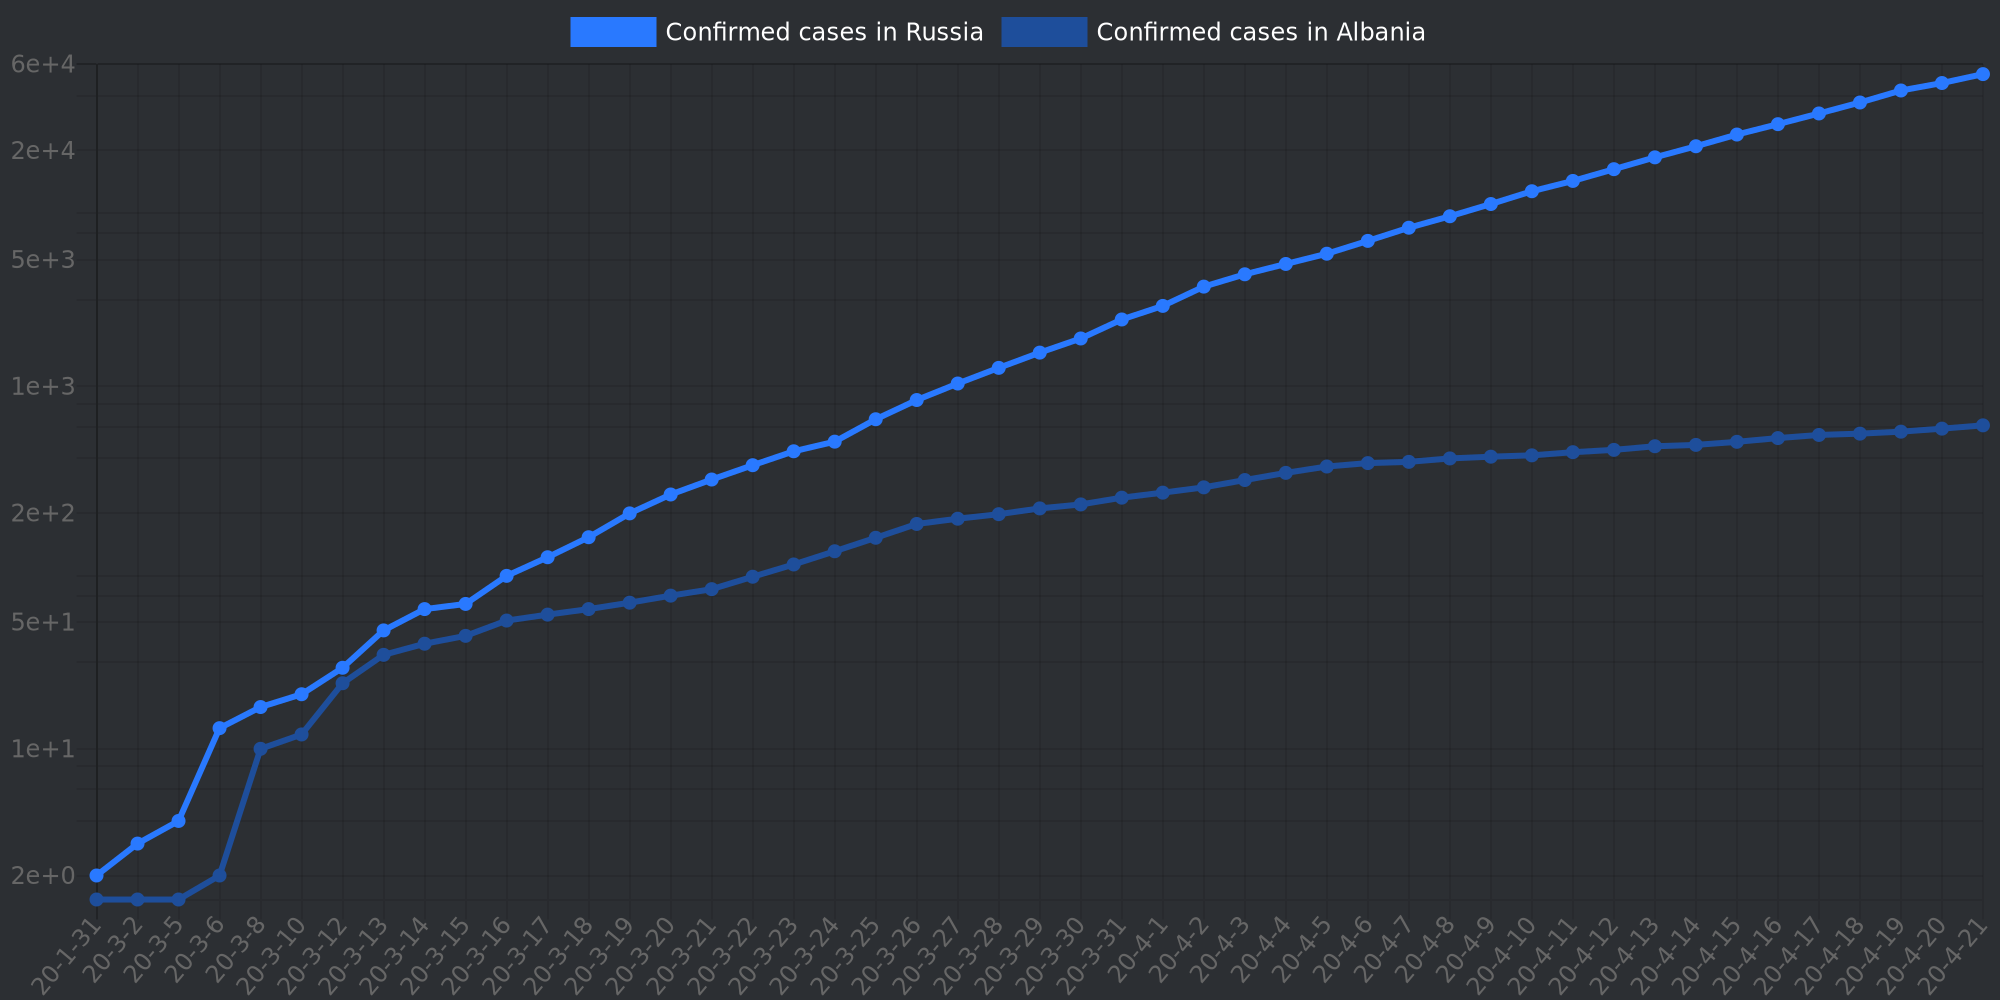
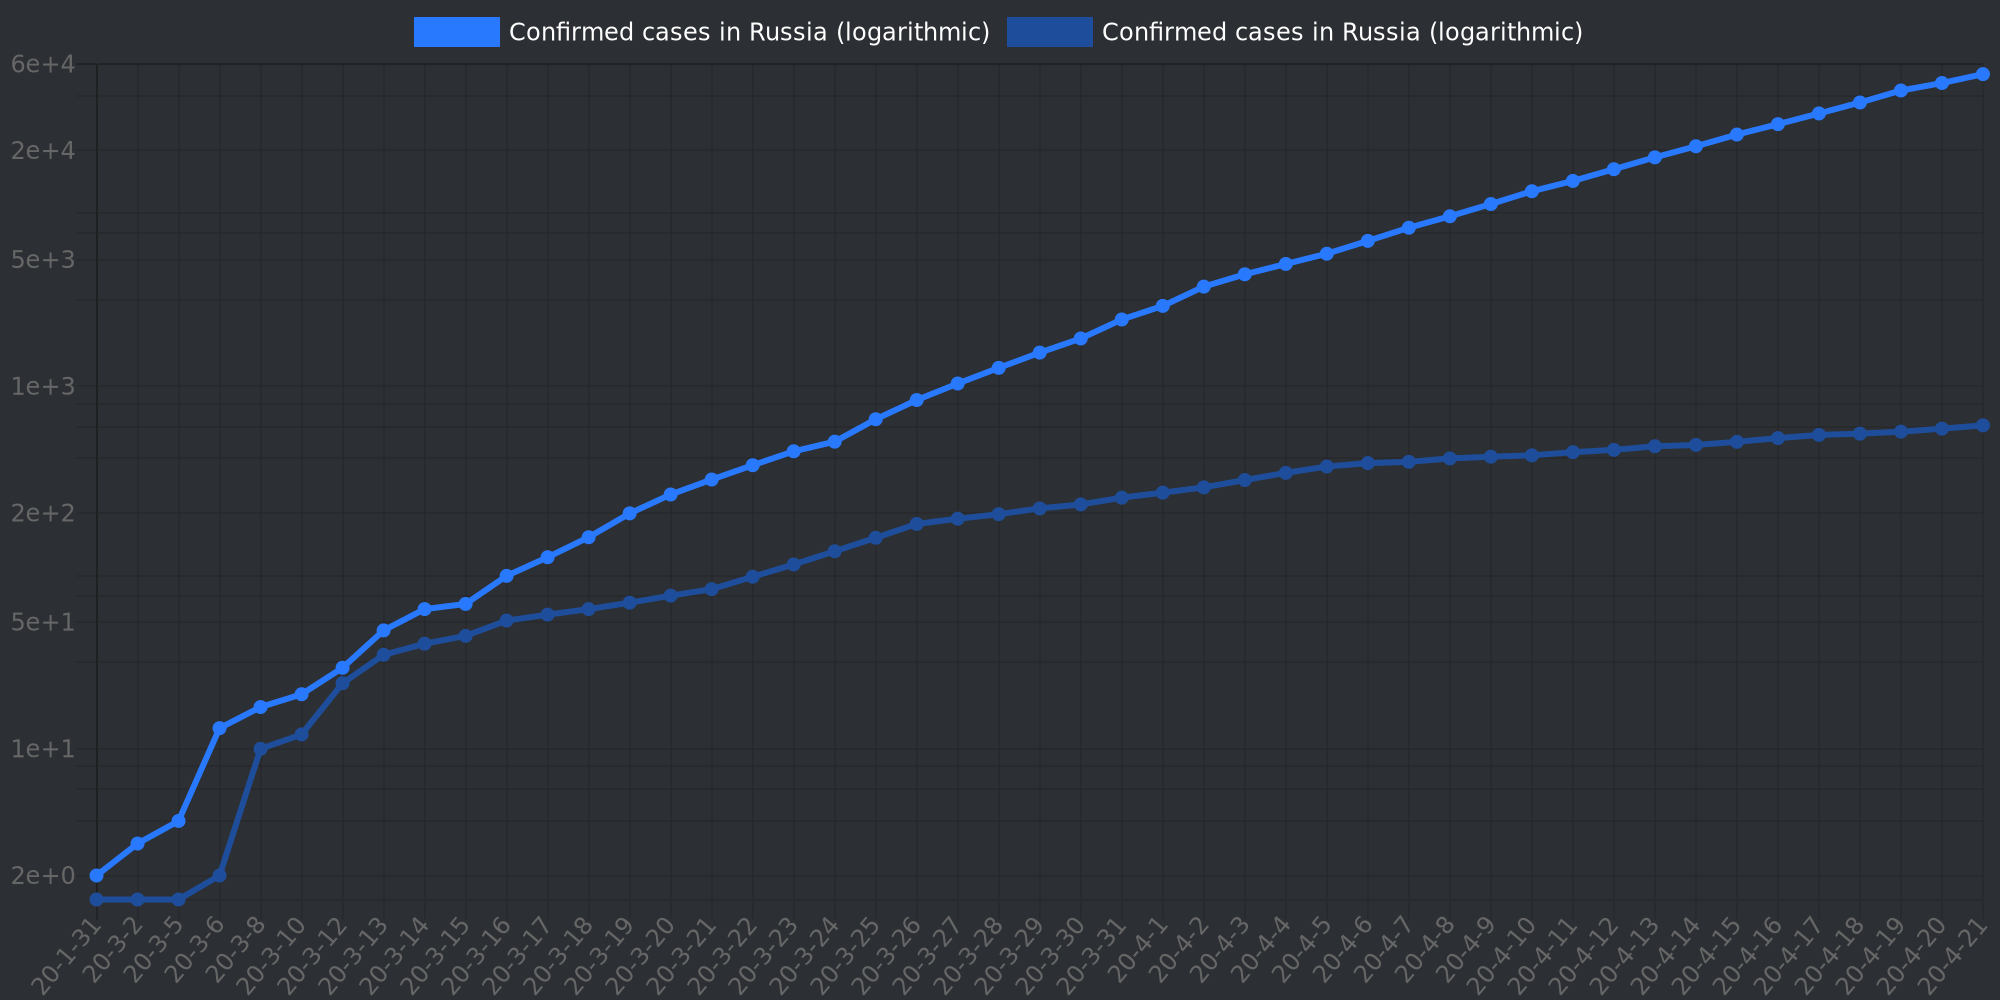
Updated labels

Changed region(s): [[0.186, 0.0, 0.496, 0.062], [0.527, 0.0, 0.775, 0.062]]

diff --git a/commands/cv.js b/commands/cv.js
@@ -147,6 +147,15 @@ module.exports = {
         function generateGraph(arr) {
             message.channel.startTyping();
 
+            let extraStr = '';
+
+            if (change && logarithmic)
+                extraStr = '(rate of change, logarithmic)';
+            else if (change)
+                extraStr = '(rate of change)';
+            else if (logarithmic)
+                extraStr = '(logarithmic)'
+
             const dates = [];
             const values = [];
 
@@ -189,14 +198,14 @@ module.exports = {
                 }
                 // console.log(values[0].length, values[1].length, values[0].length - values[1].length);
                 dataset = {
-                    label: (change) ? `${utility.getGraphLabel(country[0], flag)} (rate of change)` : utility.getGraphLabel(country[0], flag),
+                    label: `${utility.getGraphLabel(country[0], flag)} ${extraStr}`,
                     data: values[0],
                     fill: false,
                     backgroundColor: utility.getGraphColor(flag),
                     borderColor: utility.getGraphColor(flag),
                 };
                 dataset2 = {
-                    label: (change) ? `${utility.getGraphLabel(country[1], flag)} (rate of change)` : utility.getGraphLabel(country[1], flag),
+                    label: `${utility.getGraphLabel(country[0], flag)} ${extraStr}`,
                     data: values[1],
                     fill: false,
                     backgroundColor: utility.getGraphColor2(flag),
@@ -208,7 +217,7 @@ module.exports = {
             } else if (change) {
                 const valuesChange = utility.getChange(values[0]);
                 dataset = {
-                    label: `${utility.getGraphLabel(country[0], flag)} (rate of change)`,
+                    label: `${utility.getGraphLabel(country[0], flag)} ${extraStr}`,
                     data: valuesChange,
                     fill: true,
                     backgroundColor: utility.getGraphColor(flag),
@@ -217,7 +226,7 @@ module.exports = {
                 datasets.push(dataset);
             } else {
                 dataset = {
-                    label: utility.getGraphLabel(country[0], flag),
+                    label: `${utility.getGraphLabel(country[0], flag)} ${extraStr}`,
                     data: values[0],
                     fill: true,
                     backgroundColor: utility.getGraphColor(flag),

diff --git a/cv_cmd.js b/cv_cmd.js
@@ -128,6 +128,16 @@ function cv(args) {
      * @param arr
      */
     function generateGraph(arr) {
+
+        let extraStr = '';
+
+        if (change && logarithmic)
+            extraStr = '(rate of change, logarithmic)';
+        else if (change)
+            extraStr = '(rate of change)';
+        else if (logarithmic)
+            extraStr = '(logarithmic)'
+
         const dates = [];
         const values = [];
 
@@ -169,14 +179,14 @@ function cv(args) {
             }
             // console.log(values[0].length, values[1].length, values[0].length - values[1].length);
             dataset = {
-                label: (change) ? `${utility.getGraphLabel(country[0], flag)} (rate of change)` : utility.getGraphLabel(country[0], flag),
+                label: `${utility.getGraphLabel(country[0], flag)} ${extraStr}`,
                 data: values[0],
                 fill: false,
                 backgroundColor: utility.getGraphColor(flag),
                 borderColor: utility.getGraphColor(flag),
             };
             dataset2 = {
-                label: (change) ? `${utility.getGraphLabel(country[1], flag)} (rate of change)` : utility.getGraphLabel(country[1], flag),
+                label: `${utility.getGraphLabel(country[0], flag)} ${extraStr}`,
                 data: values[1],
                 fill: false,
                 backgroundColor: utility.getGraphColor2(flag),
@@ -188,7 +198,7 @@ function cv(args) {
         } else if (change) {
             const valuesChange = utility.getChange(values[0]);
             dataset = {
-                label: `${utility.getGraphLabel(country[0], flag)} (rate of change)`,
+                label: `${utility.getGraphLabel(country[0], flag)} ${extraStr}`,
                 data: valuesChange,
                 fill: true,
                 backgroundColor: utility.getGraphColor(flag),
@@ -197,7 +207,7 @@ function cv(args) {
             datasets.push(dataset);
         } else {
             dataset = {
-                label: utility.getGraphLabel(country[0], flag),
+                label: `${utility.getGraphLabel(country[0], flag)} ${extraStr}`,
                 data: values[0],
                 fill: true,
                 backgroundColor: utility.getGraphColor(flag),
